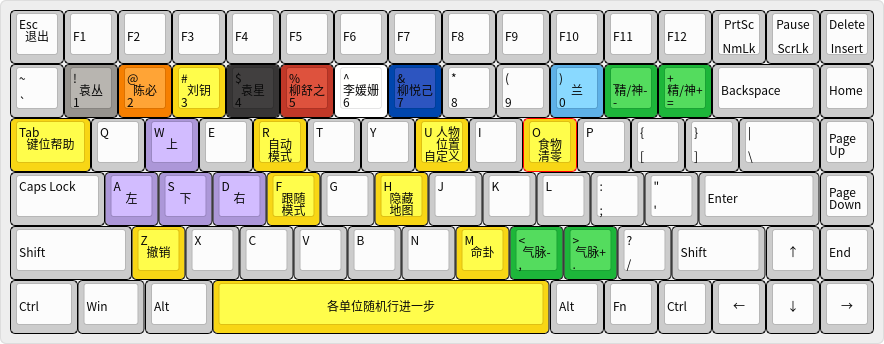
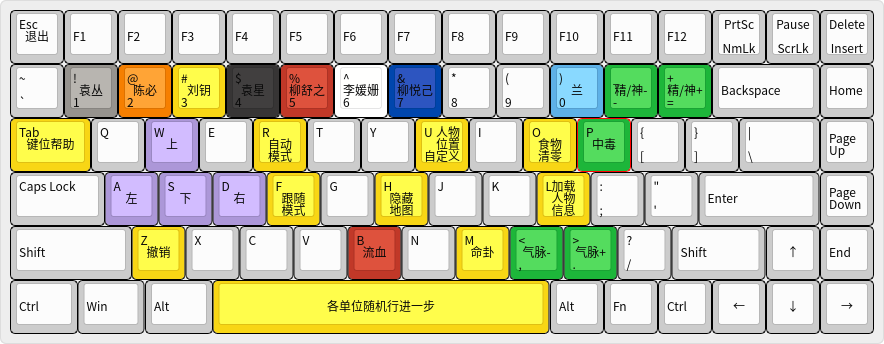
change map

Changed region(s): [[0.5803, 0.3198, 0.733, 0.6686], [0.3665, 0.6395, 0.4581, 0.814]]

diff --git a/hctc.py b/hctc.py
@@ -124,7 +124,7 @@ class HuangChangTiCou:
         person_info['兰'] = {'lc': [2, 6], 'color': (255, 255, 0), 'order': 0, 'healthy': 8, 'chi': 8, 'energy': 9, 'time': (0, 0, 0), 'speed': 1, 'direction': None, 'weapon': ['日94式'], 'item': ['古钱币*3', '刘寄奴', '钩吻', '景天', '王不留行'], 'ability': ['六爻（辨吉凶、分阴阳）', '叶底藏花', '包扎', '远程冷兵加成'], 'gua': '乾', 'blood': 0, 'poision': 0}
         person_info['柳舒之'] = {'lc': [1, 1], 'color': (0, 0, 255), 'order': 5, 'healthy': 7, 'chi': 8, 'energy': 11, 'time': (0, 0, 0), 'speed': 0.5, 'direction': None, 'weapon': ['奇门擎天伞'], 'item': ['急救包（针筒，手术刀）', '小药箱（亚硝酸钠，硫代硫酸钠，氯化钾，肾上腺素，好伤药*2）'], 'ability': ['急救', '注射', '药剂加成'], 'gua': '离', 'blood': 0, 'poision': 0}
         person_info['柳悦己'] = {'lc': [1, 6], 'color': (255, 0, 0), 'order': 7, 'healthy': 6, 'chi': 8, 'energy': 12, 'time': (0, 0, 0), 'speed': 0.5, 'direction': None, 'weapon': ['奇门纳地伞'], 'item': ['《奇门密要》'], 'ability': ['奇门遁甲(排盘，解卦)', '长枪及飞刀加成', '身法'], 'gua': '兑', 'blood': 0, 'poision': 0}
-        person_info['刘钥'] = {'lc': [3.5, 1], 'color': (0, 255, 255), 'order': 3, 'healthy': 8, 'chi': 8, 'energy': 9, 'time': (0, 0, 0), 'speed': 0.5, 'direction': None, 'weapon': ['吹管（画笔）', '驳壳枪'], 'item': ['梦蝶香', '忘忧散', '香包*2', '钢丝录音机', '古钱币*3', '清醒药*3', '麻痹散', '魅幽香'], 'ability': ['飞熊入梦', '香散加成'], 'gua': '坎', 'blood': 0, 'poision': 0}
+        person_info['刘钥'] = {'lc': [3.5, 1], 'color': (0, 255, 255), 'order': 3, 'healthy': 8, 'chi': 8, 'energy': 9, 'time': (0, 0, 0), 'speed': 0.5, 'direction': None, 'weapon': ['吹管（画笔）', '驳壳枪'], 'item': ['梦蝶香', '忘忧散', '断魂香', '香包*2', '钢丝录音机', '古钱币*3', '手表（坏的）', '清醒药*3', '麻痹散', '魅幽香'], 'ability': ['飞熊入梦', '香散加成'], 'gua': '坎', 'blood': 0, 'poision': 0}
         person_info['袁丛'] = {'lc': [6, 1], 'color': (128, 128, 128), 'order': 1, 'healthy': 9, 'chi': 8, 'energy': 8, 'time': (0, 0, 0), 'speed': 1, 'direction': None, 'weapon': ['相机(含击发器)'], 'item': ['《时闻纪要》', '手表(坏的)', '证件'], 'ability': ['伪装看破', '对答如流', '察言观色', '枪械加成'], 'gua': '坤', 'blood': 0, 'poision': 0}
         person_info['袁星'] = {'lc': [6, 3.5], 'color': (150, 0, 100), 'order': 4, 'healthy': 12, 'chi': 8, 'energy': 5, 'time': (0, 0, 0), 'speed': 1, 'direction': None, 'weapon': ['消音M1911'], 'item': ['金针', '钢丝绳', '《军统电码本》', '手表'], 'ability': ['易容', '神枪手', '全兵器加成'], 'gua': '艮', 'blood': 0, 'poision': 0}
         person_info['陈必'] = {'lc': [1, 3.5], 'color': (0, 128, 255), 'order': 2, 'healthy': 10, 'chi': 8, 'energy': 3, 'time': (0, 0, 0), 'speed': 1, 'direction': None, 'weapon': ['阴阳宣花斧'], 'item': ['探阴爪', '《寻龙笔记》', '风水罗盘'], 'ability': ['耐毒体质', '近战冷兵加成'], 'gua': '震', 'blood': 0, 'poision': 0}
